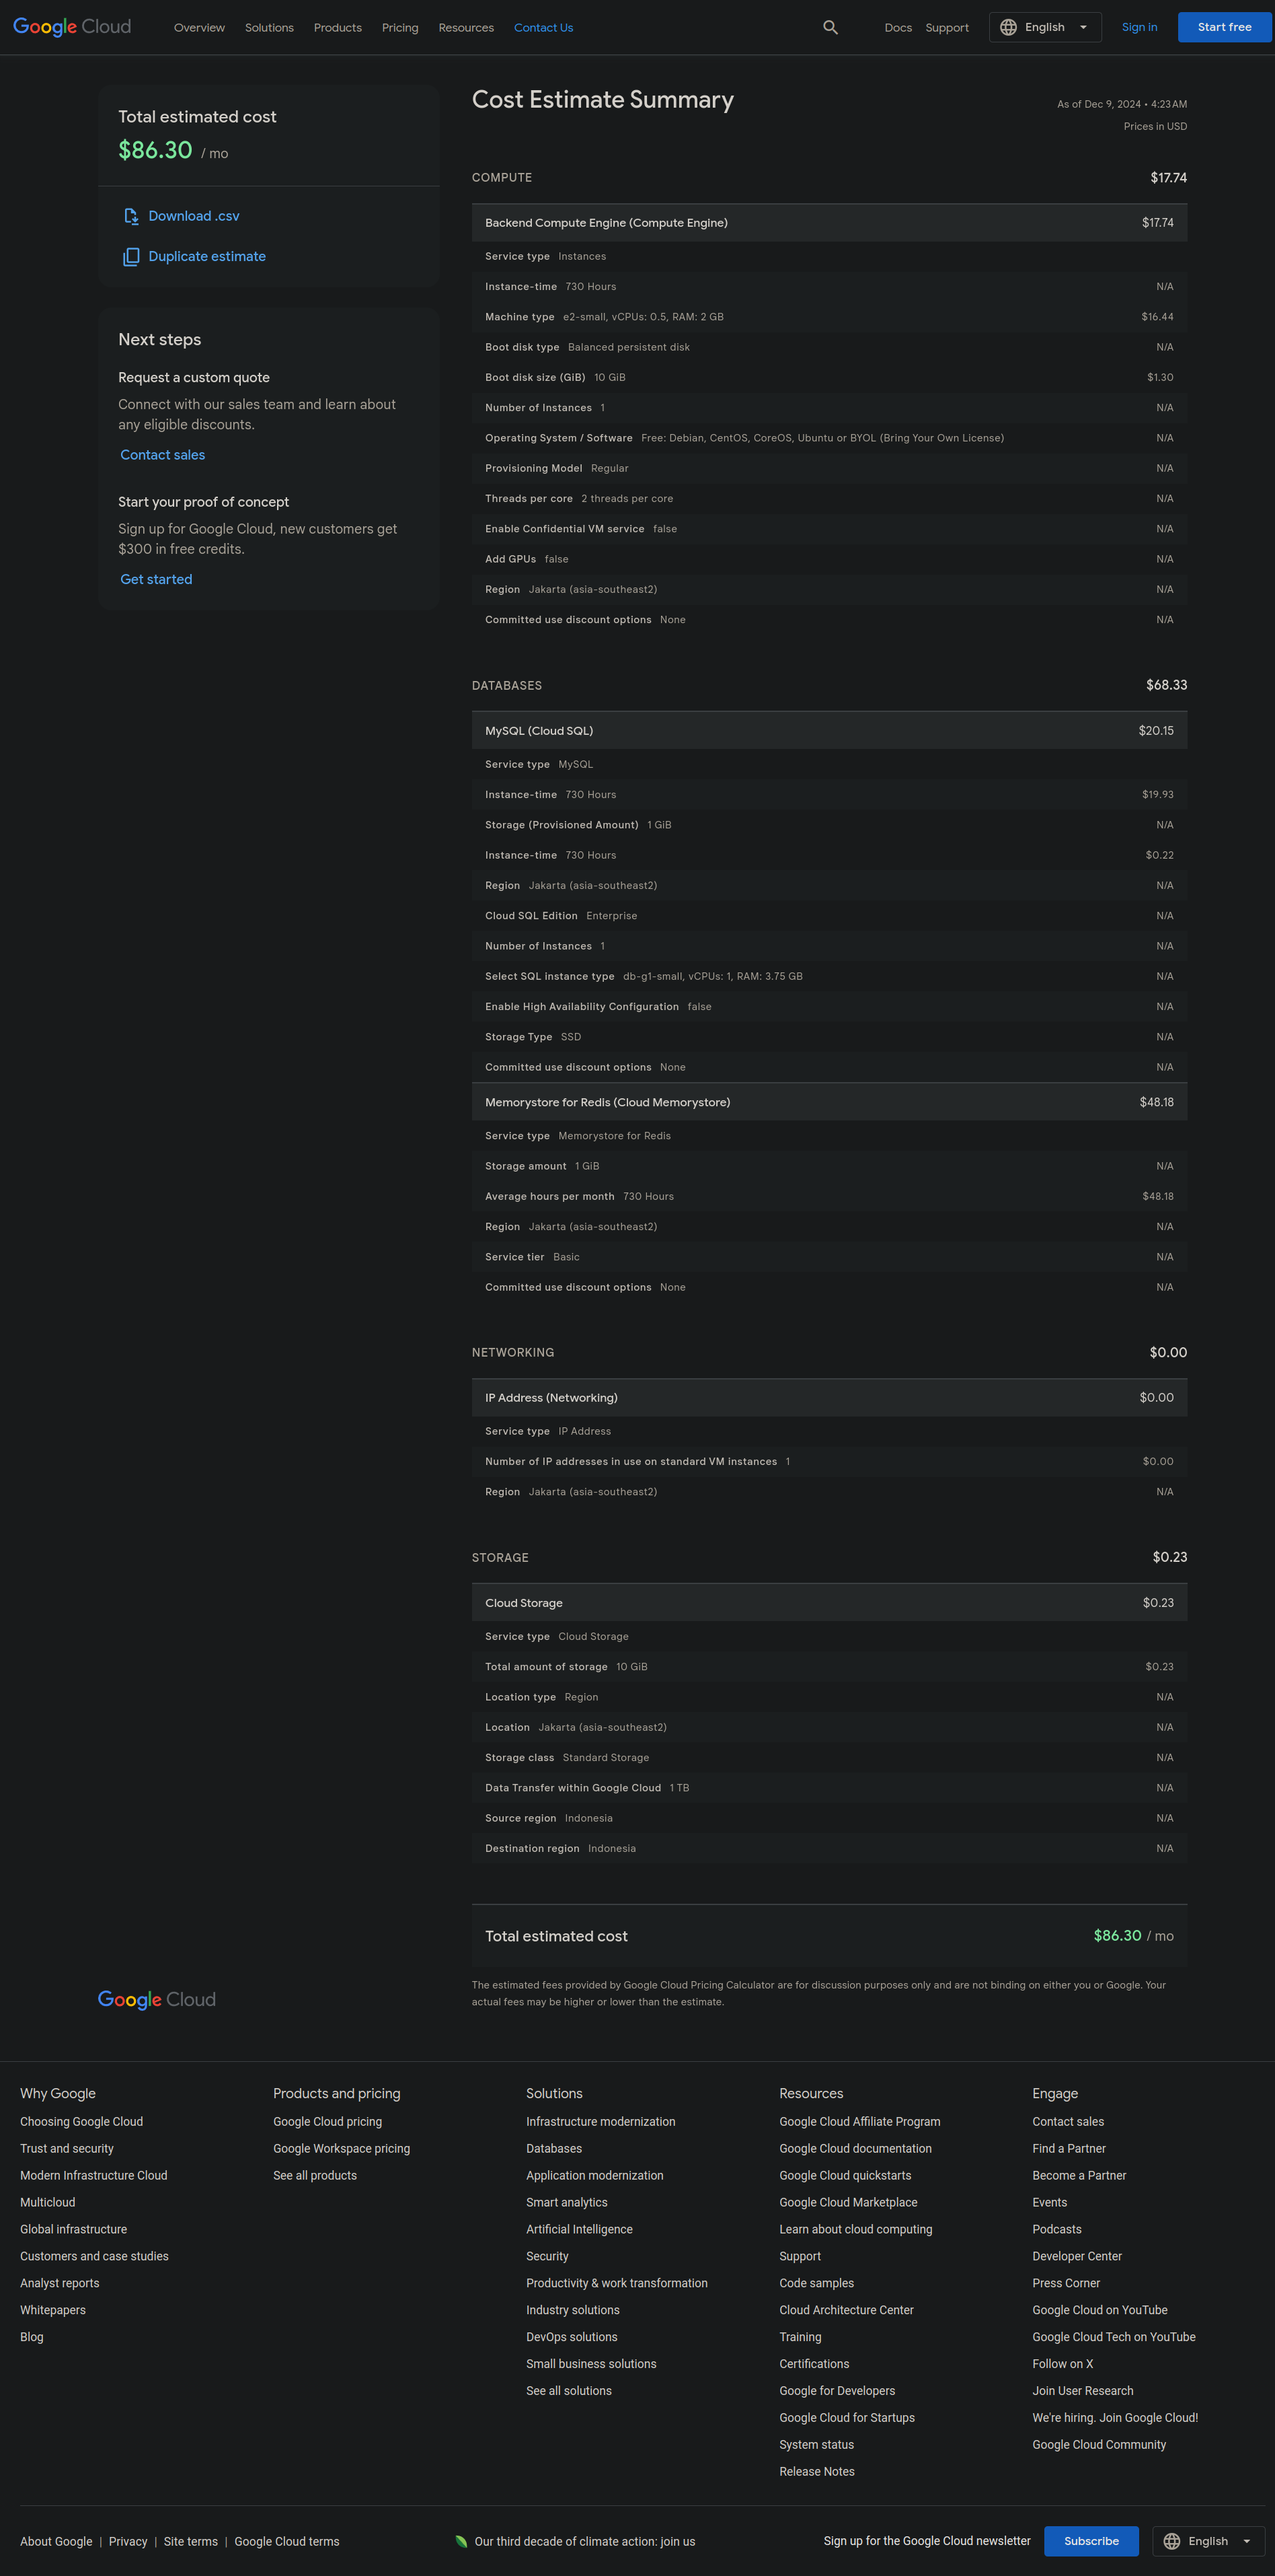
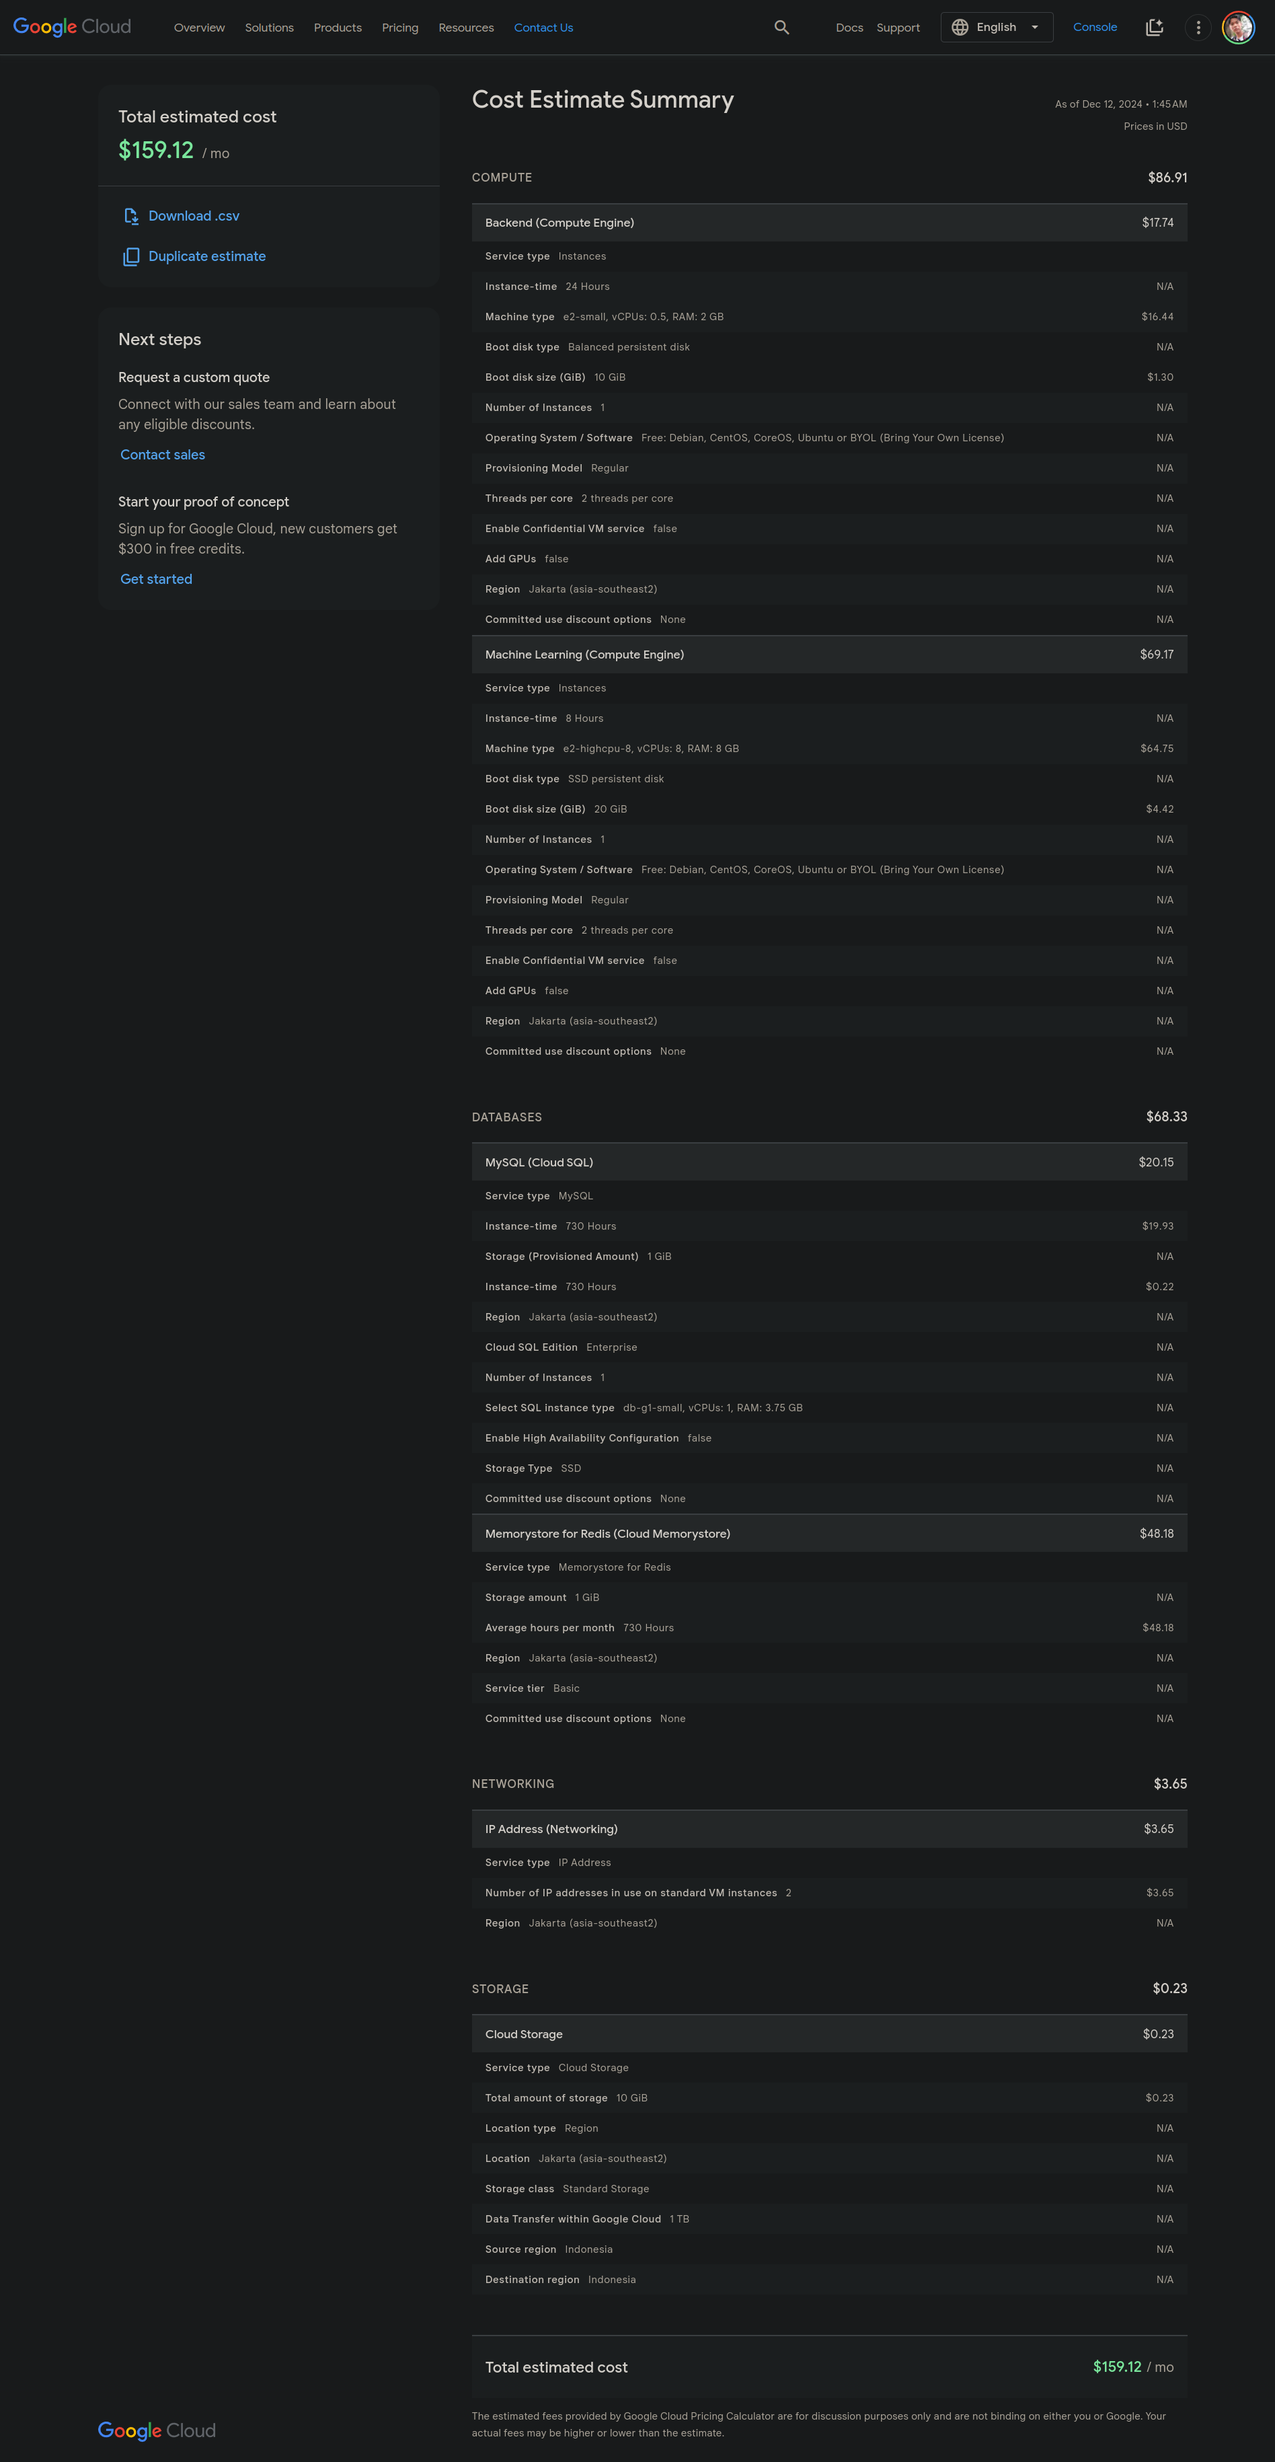
Update pricing to reflect ML instance

diff --git a/backend-gcp-infrastructure/Pricing/README.md b/backend-gcp-infrastructure/Pricing/README.md
@@ -1,6 +1,6 @@
 # ReNote GCP Infrastructure Pricing
 
-[Google Cloud Pricing Calculator for ReNote Infrastructure](https://cloud.google.com/products/calculator/estimate-preview/CiQwNTVjOWUyNi00MjEzLTQ4YTYtYTgxMy1lZjhkNWM5NDRkOTUQAQ==)
+[Google Cloud Pricing Calculator for ReNote Infrastructure](https://cloud.google.com/products/calculator/estimate-preview/CiRjMzA3YzgxNS1hNTliLTQ4YzQtYjk3MC1mOTFlNTk1NmM2MzcQAQ==)
 
 ----
 
@@ -10,3 +10,4 @@
 - Cloud Storage
 - MemoryStore for Redis
 - Compute Engine for Backend API
+- Compute Engine for Machine Learning Model
